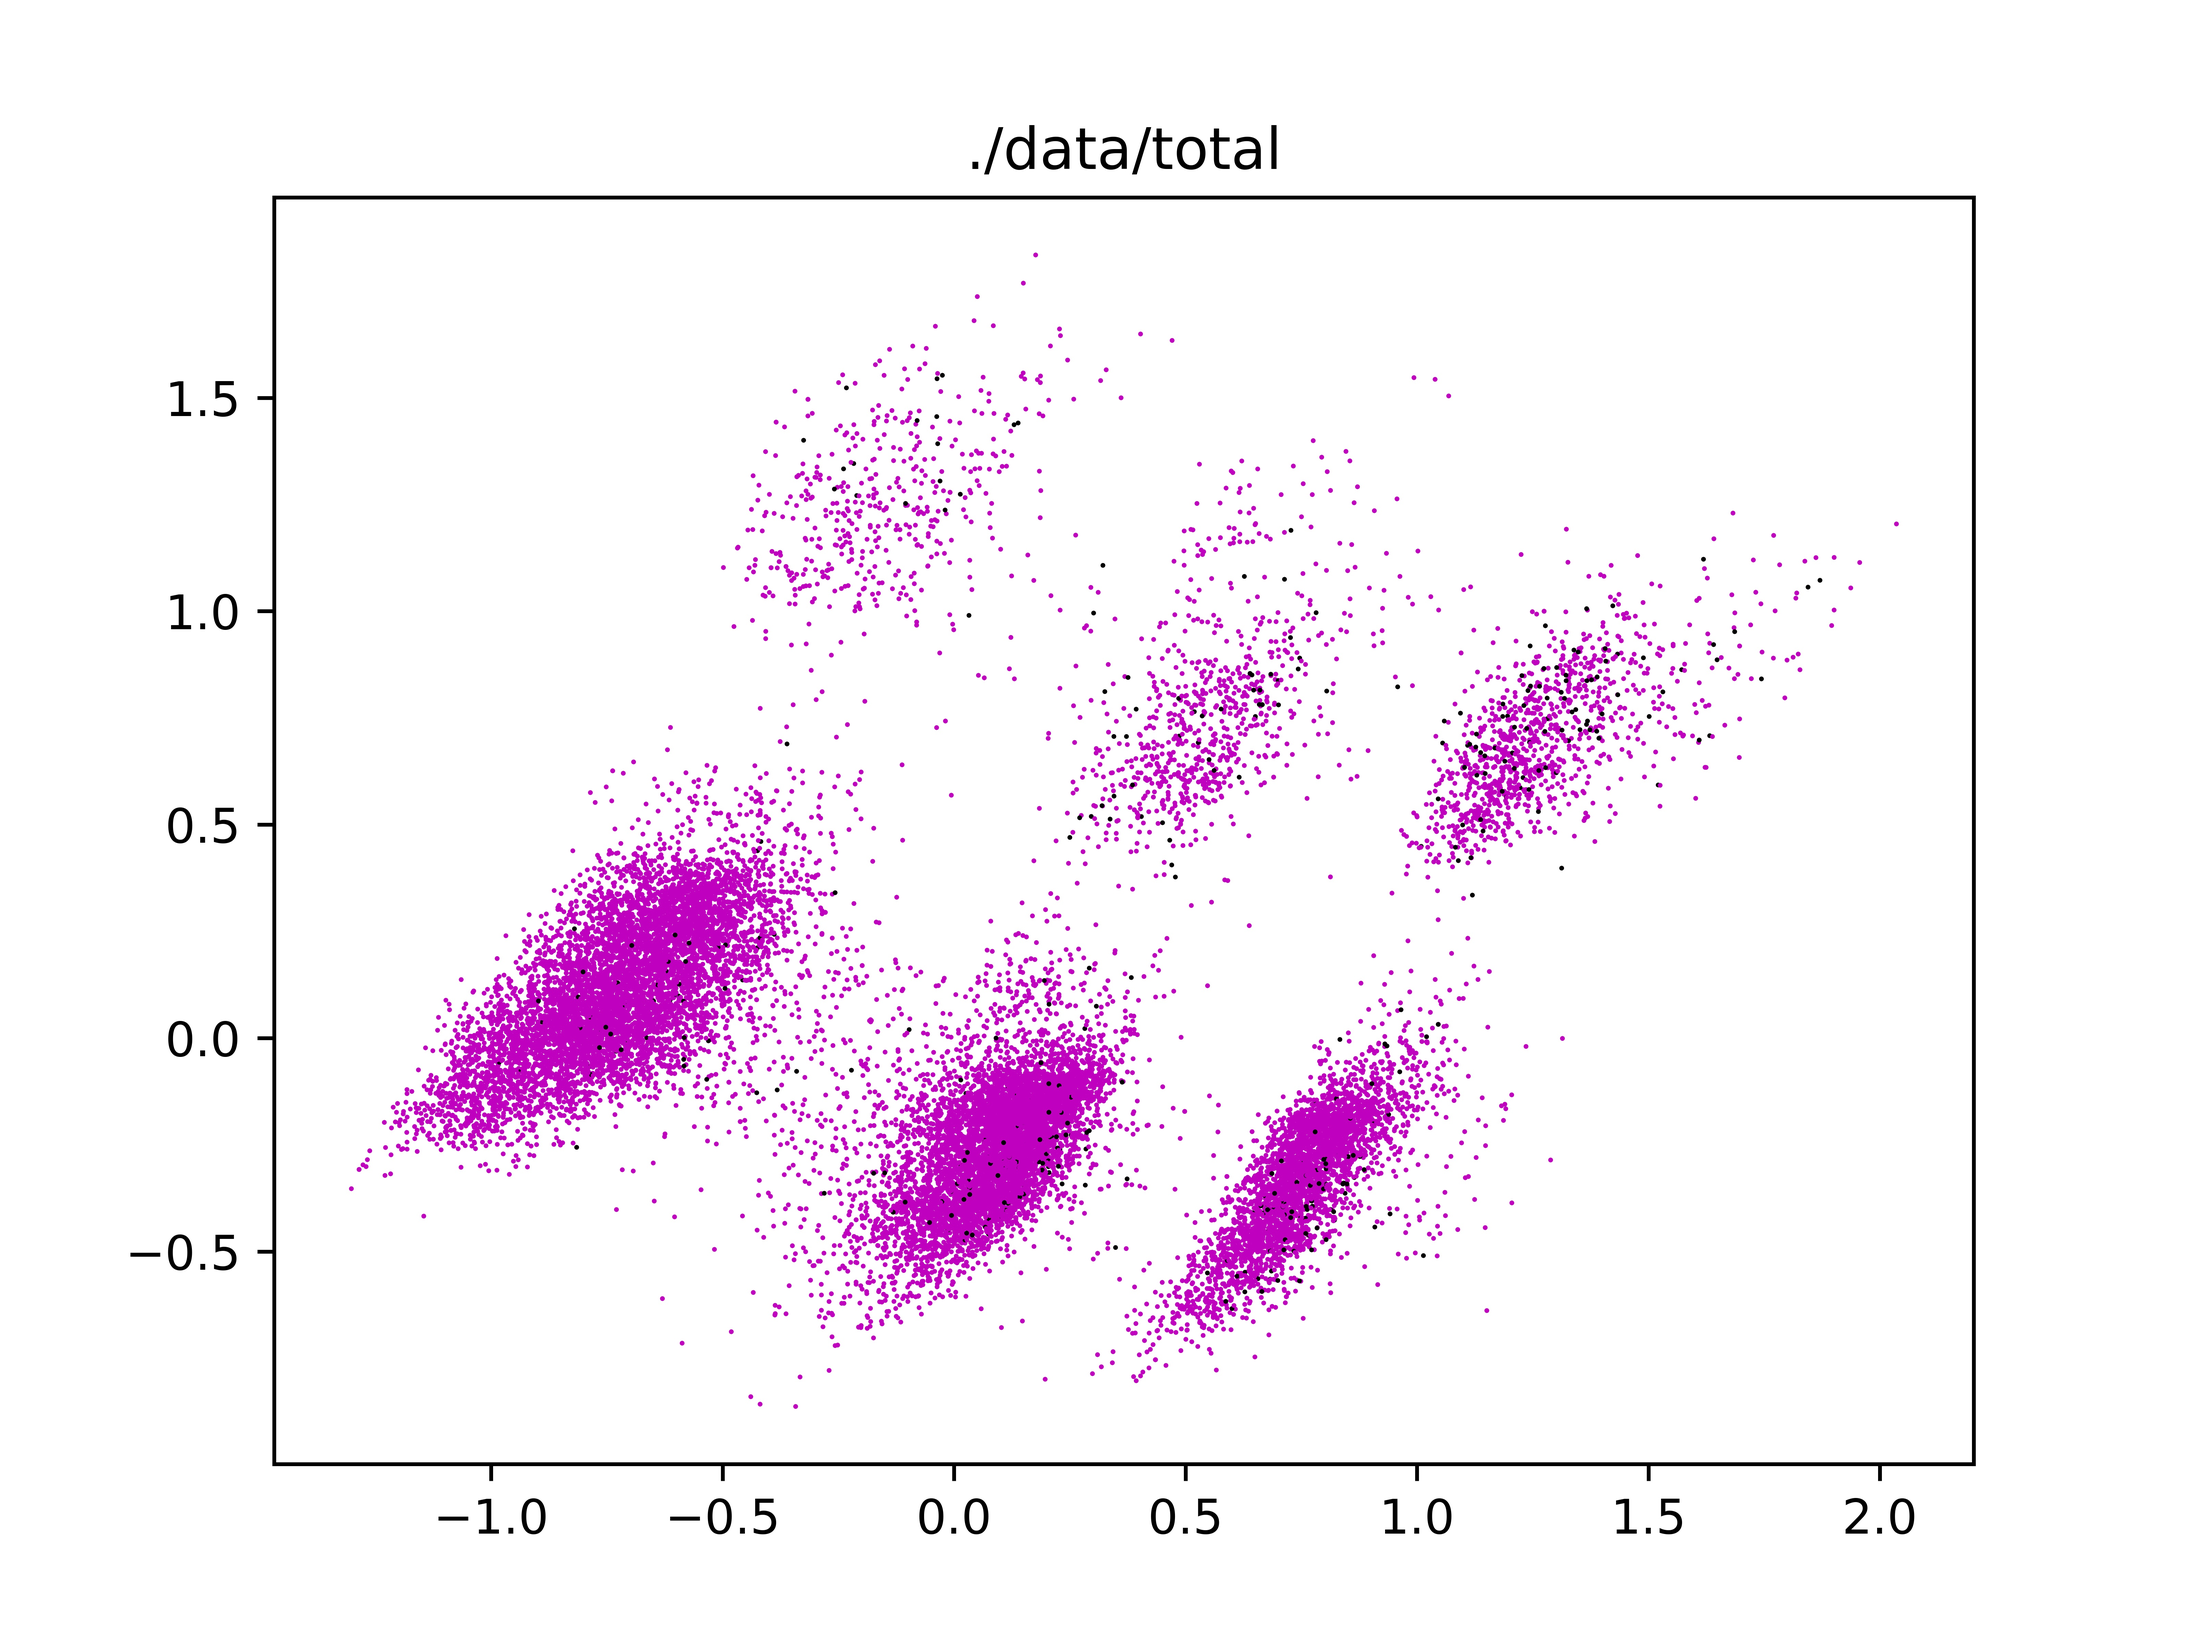
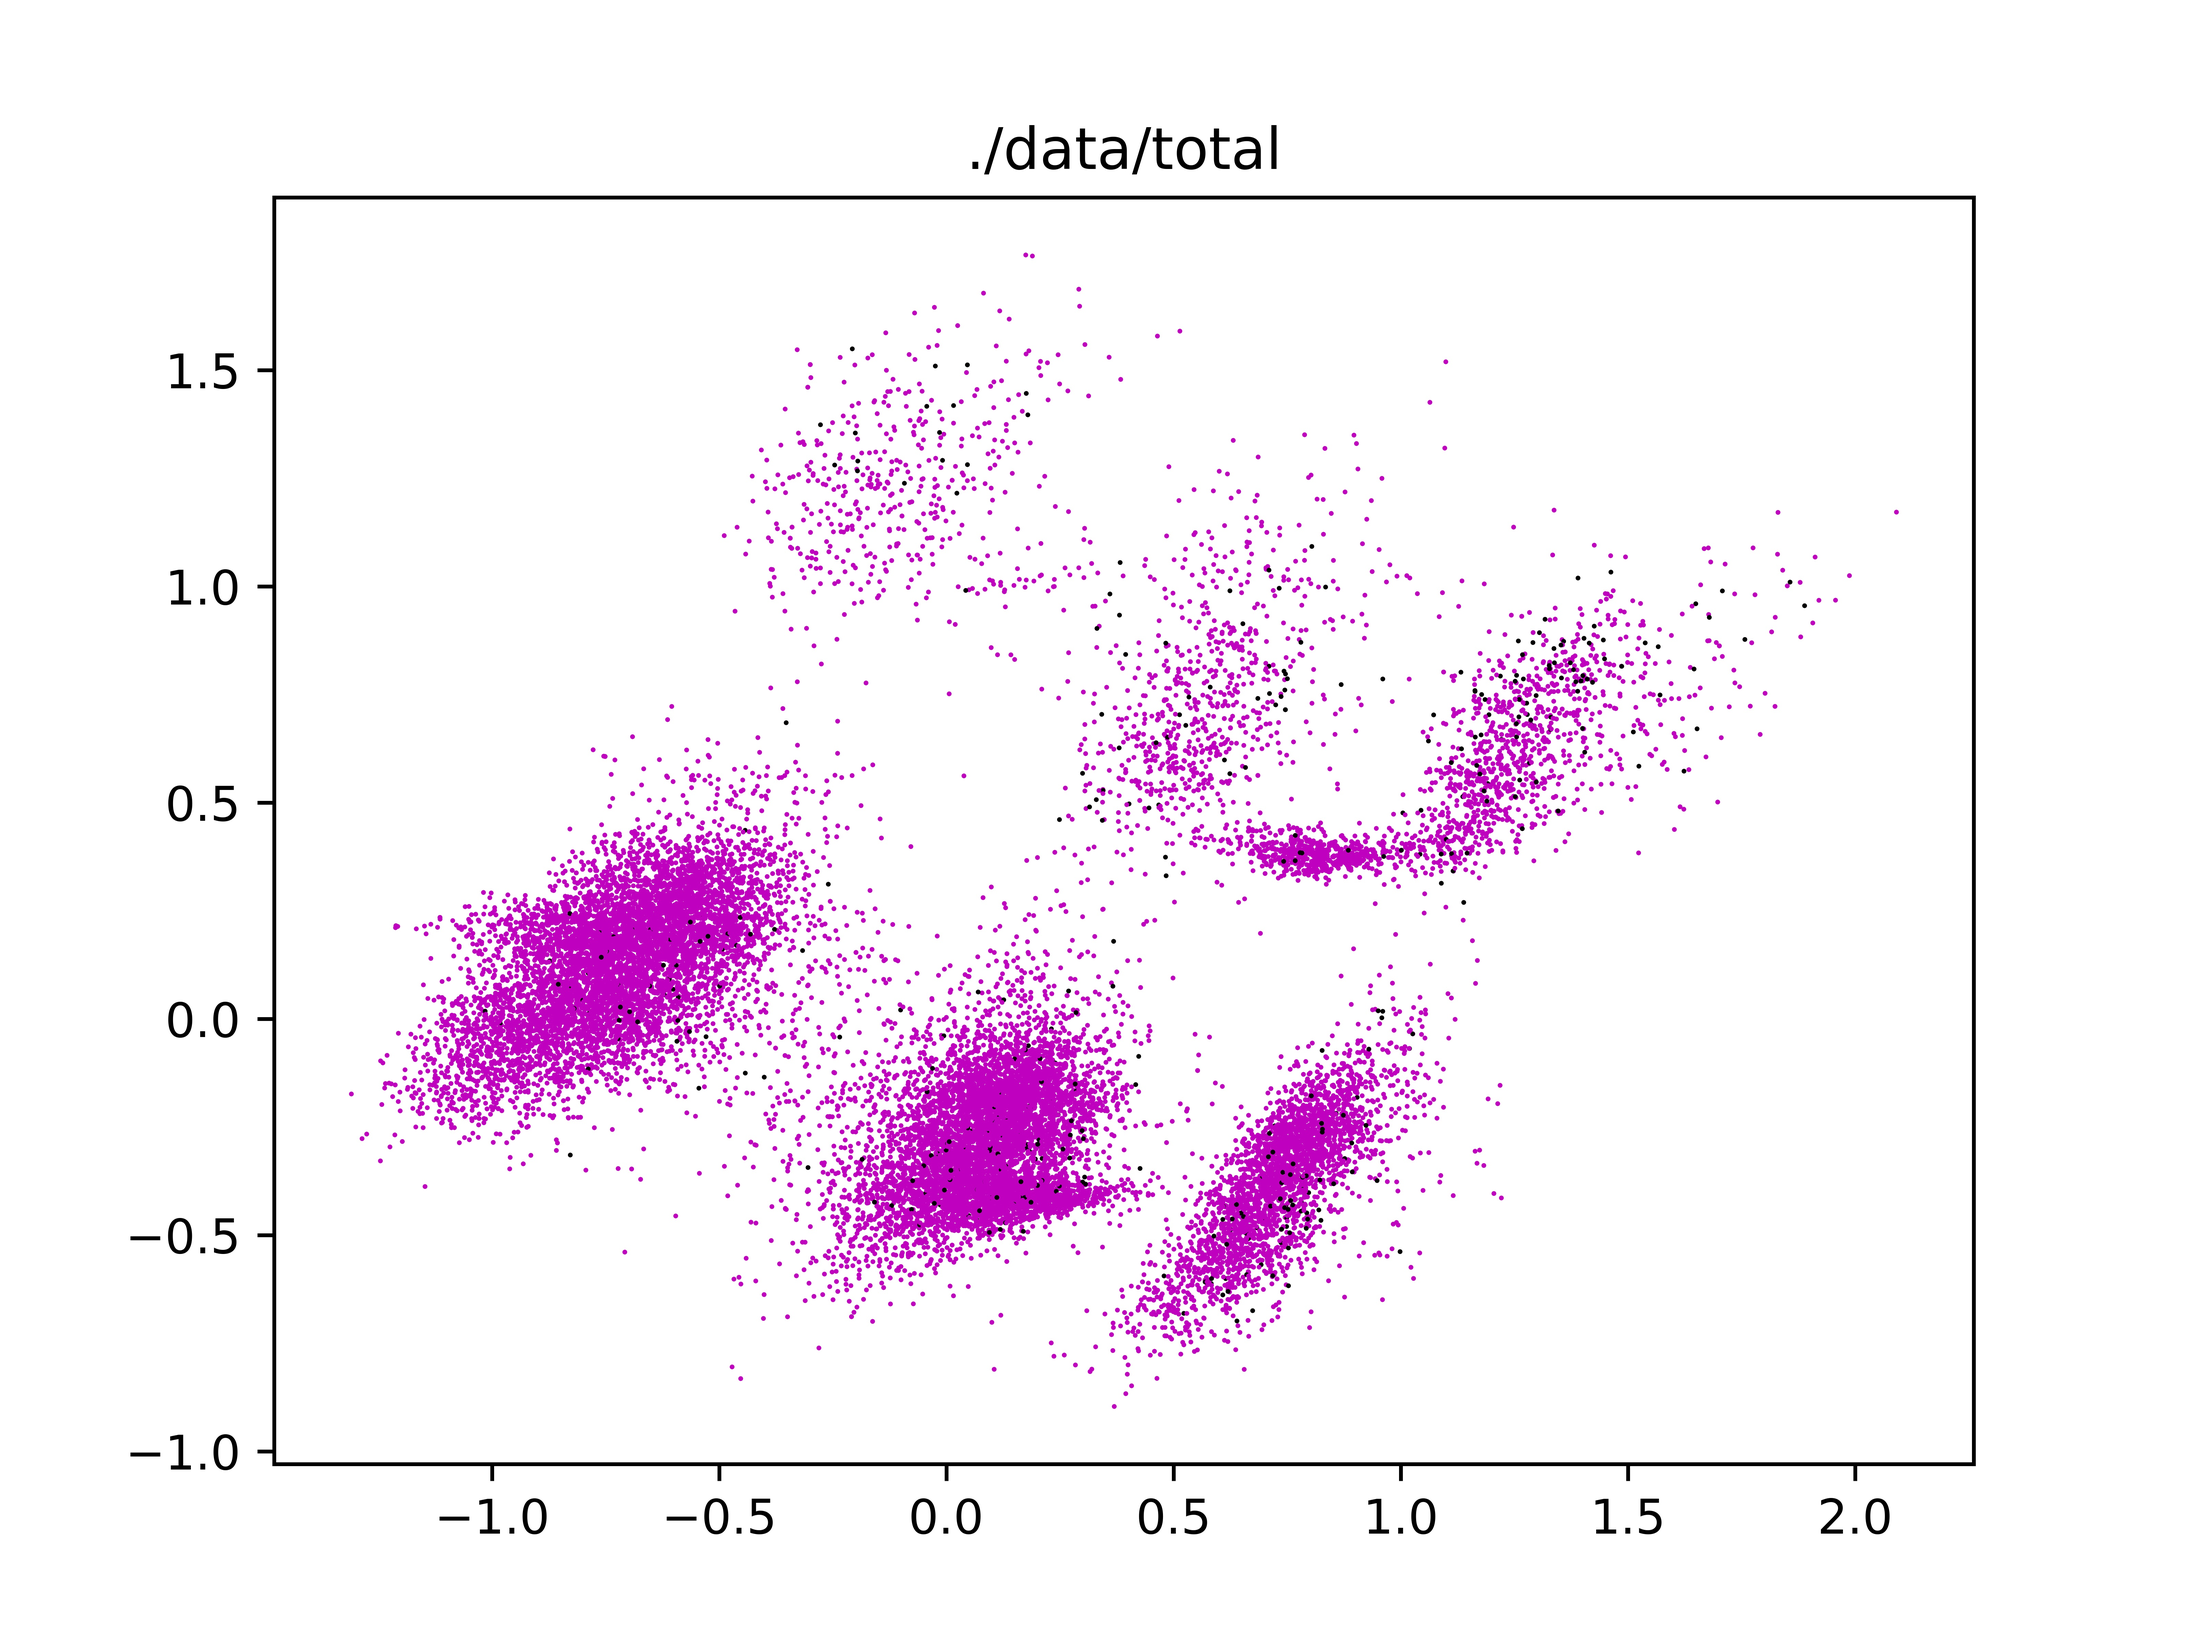
2

diff --git a/bankruptPredict.py b/bankruptPredict.py
@@ -101,70 +101,77 @@ def classificationProcess(clf, X_train, y_train, X_test, y_test, modelName):
     print("{} F1-score is {}".format(modelName, F1_score))
     print("{} time used is {}".format(modelName, time_used))
     with open("log.txt",'a') as f:
-        f.writelines("{} , {:.3f} , {:.3f} , {:.3f} , {:.3f} , {:.3f} \n".format(modelName,acc,ROC_AUC,PR_AUC,F1_score,time_used))
+        f.writelines("| {} | {:.3f} | {:.3f} | {:.3f} | {:.3f} | {:.3f} |\n".format(modelName,acc,ROC_AUC,PR_AUC,F1_score,time_used))
     
 def main():
-    labels = []
-    embeddings = []
+    # labels = []
+    # embeddings = []
     for i in range(1,6):
+        with open("log.txt",'a') as f:
+            f.writelines("\n\n### Table {}year.arff\n".format(i))
+            f.writelines("| modelName | acc	| ROC_AUC	| PR_AUC	| F1_score	| time_used |\n")
+            f.writelines("| :--------  | :-----  | :----:  | :--------  | :-----  | :----:  |\n")
         embeddingFileName = "./data/{}year.arff".format(i)
-        label,embedding = loaddata(embeddingFileName)
-        labels.extend(label.tolist())
-        embeddings.extend(embedding.tolist())
+        labels,embeddings = loaddata(embeddingFileName)
+        # labels.extend(label.tolist())
+        # embeddings.extend(embedding.tolist())
         # embeddings = np.vstack((embedding,embeddings))
-    embeddings = np.array(embeddings)
-    print(embeddings.shape)
-    embeddings = datapreprocess(embeddings, labels)
-    print(embeddings.shape)
-    generatePCAMap(labels,embeddings,"./data/total")
-    
-    with open("log.txt",'a') as f:
-        f.writelines("\n\nmodelName , acc , ROC_AUC , PR_AUC , F1_score , time_used\n")
-    
-    X = embeddings
-    y = np.array(labels)
-    X_train, X_test, y_train, y_test = train_test_split(X, y, test_size=0.2, random_state=1)
-    
-    # Bernoulli Naive Bayes
-    clf = BernoulliNB()
-    classificationProcess(clf, X_train, y_train, X_test, y_test, "BernoulliNB")
-    
-    # Gaussian Naive Bayes
-    clf = GaussianNB()
-    classificationProcess(clf, X_train, y_train, X_test, y_test, "GaussianNB")
-    
-    # SVM
-    clf = svm.SVC()
-    classificationProcess(clf, X_train, y_train, X_test, y_test, "SVM")
-    
-    
-    # DecisionTree
-    clf = tree.DecisionTreeClassifier()
-    classificationProcess(clf, X_train, y_train, X_test, y_test, "DecisionTree")
-    
-    # Stochastic Gradient Descent
-    clf = SGDClassifier(loss="hinge", penalty="l2", max_iter=50)
-    classificationProcess(clf, X_train, y_train, X_test, y_test, "SGD")
-    
-    # Nearest Neighbors
-    clf = NearestCentroid()
-    classificationProcess(clf, X_train, y_train, X_test, y_test, "Nearest_Neighbors")
-    
-    # AdaBoost
-    clf = AdaBoostClassifier(n_estimators=100)
-    classificationProcess(clf, X_train, y_train, X_test, y_test, "AdaBoost")
-    
-    # GradientBoosting
-    clf = GradientBoostingClassifier(n_estimators=100, learning_rate=1.0, max_depth=1, random_state=0)
-    classificationProcess(clf, X_train, y_train, X_test, y_test, "GradientBoosting")
-    
-    # HistGradientBoosting
-    clf = HistGradientBoostingClassifier(max_iter=100)
-    classificationProcess(clf, X_train, y_train, X_test, y_test, "HistGradientBoosting")
-    
-    # Neural network models (supervised)
-    clf = MLPClassifier(solver='lbfgs', alpha=1e-5, hidden_layer_sizes=(200, ), random_state=1, max_iter=1000)
-    classificationProcess(clf, X_train, y_train, X_test, y_test, "MLP")
+        
+        embeddings = np.array(embeddings)
+        print(embeddings.shape)
+        embeddings = datapreprocess(embeddings, labels)
+        print(embeddings.shape)
+        generatePCAMap(labels,embeddings,"./data/total")
+        
+        # with open("log.txt",'a') as f:
+        #     f.writelines("| modelName | acc	| ROC_AUC	| PR_AUC	| F1_score	| time_used |\n")
+        #     f.writelines("| :--------  | :-----  | :----:  | :--------  | :-----  | :----:  |\n")
+            
+        
+        X = embeddings
+        y = np.array(labels)
+        X_train, X_test, y_train, y_test = train_test_split(X, y, test_size=0.2, random_state=1)
+        
+        # Bernoulli Naive Bayes
+        clf = BernoulliNB()
+        classificationProcess(clf, X_train, y_train, X_test, y_test, "BernoulliNB")
+        
+        # Gaussian Naive Bayes
+        clf = GaussianNB()
+        classificationProcess(clf, X_train, y_train, X_test, y_test, "GaussianNB")
+        
+        # SVM
+        clf = svm.SVC()
+        classificationProcess(clf, X_train, y_train, X_test, y_test, "SVM")
+        
+        
+        # DecisionTree
+        clf = tree.DecisionTreeClassifier()
+        classificationProcess(clf, X_train, y_train, X_test, y_test, "DecisionTree")
+        
+        # Stochastic Gradient Descent
+        clf = SGDClassifier(loss="hinge", penalty="l2", max_iter=50)
+        classificationProcess(clf, X_train, y_train, X_test, y_test, "SGD")
+        
+        # Nearest Neighbors
+        clf = NearestCentroid()
+        classificationProcess(clf, X_train, y_train, X_test, y_test, "Nearest_Neighbors")
+        
+        # AdaBoost
+        clf = AdaBoostClassifier(n_estimators=100)
+        classificationProcess(clf, X_train, y_train, X_test, y_test, "AdaBoost")
+        
+        # GradientBoosting
+        clf = GradientBoostingClassifier(n_estimators=100, learning_rate=1.0, max_depth=1, random_state=0)
+        classificationProcess(clf, X_train, y_train, X_test, y_test, "GradientBoosting")
+        
+        # HistGradientBoosting
+        clf = HistGradientBoostingClassifier(max_iter=100)
+        classificationProcess(clf, X_train, y_train, X_test, y_test, "HistGradientBoosting")
+        
+        # Neural network models (supervised)
+        clf = MLPClassifier(solver='lbfgs', alpha=1e-5, hidden_layer_sizes=(200, ), random_state=1, max_iter=1000)
+        classificationProcess(clf, X_train, y_train, X_test, y_test, "MLP")
     
     
     

diff --git a/README.md b/README.md
@@ -1,7 +1,7 @@
 # DataMiningHW2
 10 models for Polish+companies+bankruptcy+data
 
-### Table 1 Final Results for Comparative Models
+### Table 1 Final Results of all-5-years data for Comparative Models
 
 | modelName | acc	| ROC_AUC	| PR_AUC	| F1_score	| time_used |
 | :--------  | :-----  | :----:  | :--------  | :-----  | :----:  |
@@ -15,3 +15,78 @@
 | GradientBoosting |	0.978 |	0.588 |	0.145 |	0.636 |	6.518 |
 | **HistGradientBoosting** |	**0.982** |	**0.64** |	**0.262** |	**0.708** |	**9.174** |
 | MLP |	0.977 |	0.623 |	0.158 |	0.667 |	113.919 |
+
+
+### Table 1year.arff
+| modelName | acc	| ROC_AUC	| PR_AUC	| F1_score	| time_used |
+| :--------  | :-----  | :----:  | :--------  | :-----  | :----:  |
+| BernoulliNB | 0.987 | 0.500 | 0.013 | 0.497 | 0.008 |
+| GaussianNB | 0.645 | 0.512 | 0.013 | 0.404 | 0.003 |
+| SVM | 0.987 | 0.500 | 0.013 | 0.497 | 0.030 |
+| DecisionTree | 0.972 | 0.492 | 0.013 | 0.493 | 0.069 |
+| SGD | 0.987 | 0.500 | 0.013 | 0.497 | 0.008 |
+| Nearest_Neighbors | 0.626 | 0.502 | 0.013 | 0.397 | 0.002 |
+| AdaBoost | 0.986 | 0.561 | 0.053 | 0.587 | 1.212 |
+| GradientBoosting | 0.980 | 0.558 | 0.029 | 0.562 | 0.891 |
+| HistGradientBoosting | 0.986 | 0.499 | 0.013 | 0.496 | 285.766 |
+| MLP | 0.983 | 0.498 | 0.013 | 0.496 | 31.259 |
+
+
+### Table 2year.arff
+| modelName | acc	| ROC_AUC	| PR_AUC	| F1_score	| time_used |
+| :--------  | :-----  | :----:  | :--------  | :-----  | :----:  |
+| BernoulliNB | 0.983 | 0.500 | 0.017 | 0.496 | 0.002 |
+| GaussianNB | 0.795 | 0.685 | 0.034 | 0.486 | 0.003 |
+| SVM | 0.983 | 0.500 | 0.017 | 0.496 | 0.078 |
+| DecisionTree | 0.954 | 0.485 | 0.017 | 0.488 | 0.073 |
+| SGD | 0.983 | 0.500 | 0.017 | 0.496 | 0.011 |
+| Nearest_Neighbors | 0.656 | 0.685 | 0.030 | 0.428 | 0.002 |
+| AdaBoost | 0.974 | 0.496 | 0.017 | 0.493 | 1.531 |
+| GradientBoosting | 0.980 | 0.499 | 0.017 | 0.495 | 1.146 |
+| HistGradientBoosting | 0.982 | 0.499 | 0.017 | 0.495 | 295.337 |
+| MLP | 0.979 | 0.639 | 0.116 | 0.655 | 35.009 |
+
+
+### Table 3year.arff
+| modelName | acc	| ROC_AUC	| PR_AUC	| F1_score	| time_used |
+| :--------  | :-----  | :----:  | :--------  | :-----  | :----:  |
+| BernoulliNB | 0.975 | 0.499 | 0.024 | 0.494 | 0.005 |
+| GaussianNB | 0.760 | 0.686 | 0.045 | 0.484 | 0.003 |
+| SVM | 0.976 | 0.500 | 0.024 | 0.494 | 0.113 |
+| DecisionTree | 0.961 | 0.556 | 0.039 | 0.558 | 0.142 |
+| SGD | 0.975 | 0.499 | 0.024 | 0.494 | 0.017 |
+| Nearest_Neighbors | 0.651 | 0.609 | 0.032 | 0.428 | 0.003 |
+| AdaBoost | 0.975 | 0.542 | 0.056 | 0.565 | 1.786 |
+| GradientBoosting | 0.973 | 0.498 | 0.024 | 0.493 | 1.384 |
+| HistGradientBoosting | 0.975 | 0.521 | 0.037 | 0.532 | 317.250 |
+| MLP | 0.957 | 0.596 | 0.056 | 0.585 | 41.183 |
+
+
+### Table 4year.arff
+| modelName | acc	| ROC_AUC	| PR_AUC	| F1_score	| time_used |
+| :--------  | :-----  | :----:  | :--------  | :-----  | :----:  |
+| BernoulliNB | 0.970 | 0.499 | 0.029 | 0.492 | 0.003 |
+| GaussianNB | 0.848 | 0.679 | 0.063 | 0.539 | 0.003 |
+| SVM | 0.971 | 0.500 | 0.029 | 0.493 | 0.121 |
+| DecisionTree | 0.948 | 0.627 | 0.081 | 0.608 | 0.108 |
+| SGD | 0.972 | 0.518 | 0.064 | 0.527 | 0.018 |
+| Nearest_Neighbors | 0.719 | 0.699 | 0.056 | 0.478 | 0.003 |
+| AdaBoost | 0.963 | 0.548 | 0.051 | 0.564 | 1.768 |
+| GradientBoosting | 0.966 | 0.550 | 0.058 | 0.570 | 1.356 |
+| HistGradientBoosting | 0.968 | 0.516 | 0.035 | 0.522 | 311.313 |
+| MLP | 0.968 | 0.585 | 0.093 | 0.614 | 33.888 |
+
+
+### Table 5year.arff
+| modelName | acc	| ROC_AUC	| PR_AUC	| F1_score	| time_used |
+| :--------  | :-----  | :----:  | :--------  | :-----  | :----:  |
+| BernoulliNB | 0.965 | 0.523 | 0.057 | 0.535 | 0.003 |
+| GaussianNB | 0.876 | 0.775 | 0.125 | 0.602 | 0.002 |
+| SVM | 0.965 | 0.500 | 0.035 | 0.491 | 0.054 |
+| DecisionTree | 0.956 | 0.656 | 0.140 | 0.659 | 0.100 |
+| SGD | 0.965 | 0.500 | 0.035 | 0.491 | 0.011 |
+| Nearest_Neighbors | 0.769 | 0.789 | 0.097 | 0.530 | 0.007 |
+| AdaBoost | 0.970 | 0.686 | 0.256 | 0.728 | 1.154 |
+| GradientBoosting | 0.942 | 0.786 | 0.214 | 0.698 | 0.833 |
+| HistGradientBoosting | 0.974 | 0.642 | 0.270 | 0.708 | 293.055 |
+| MLP | 0.962 | 0.705 | 0.213 | 0.710 | 30.333 |
